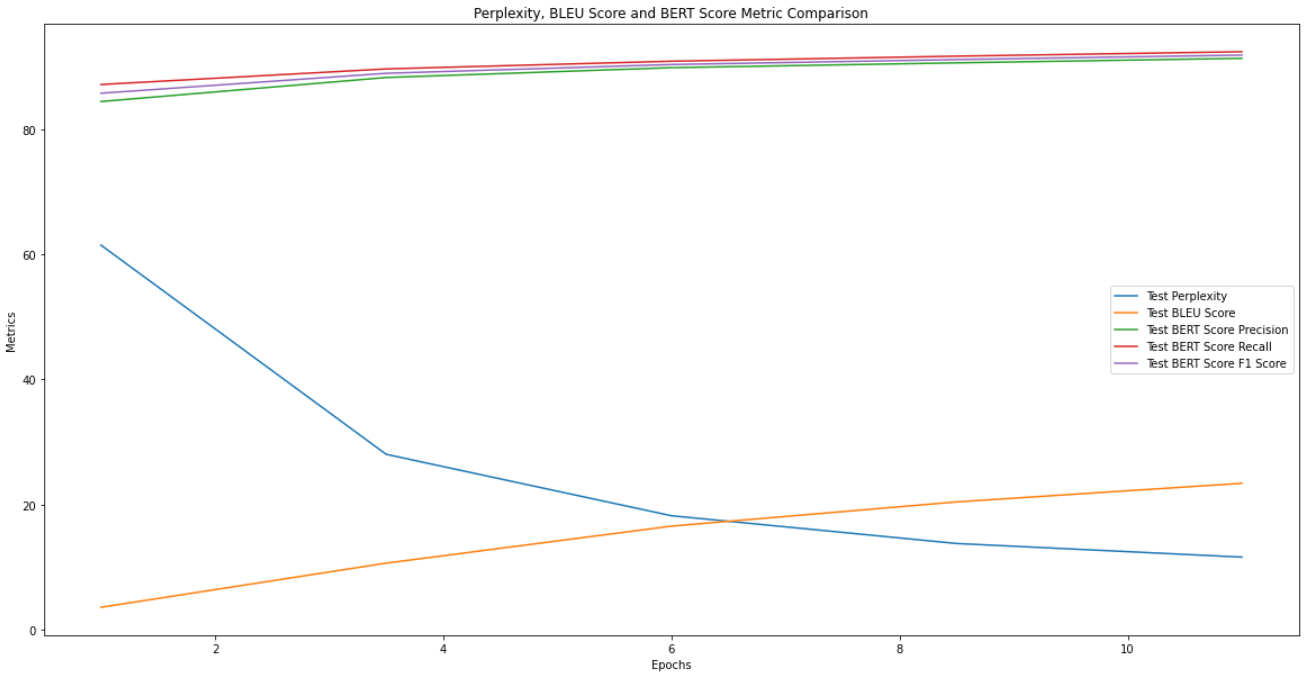
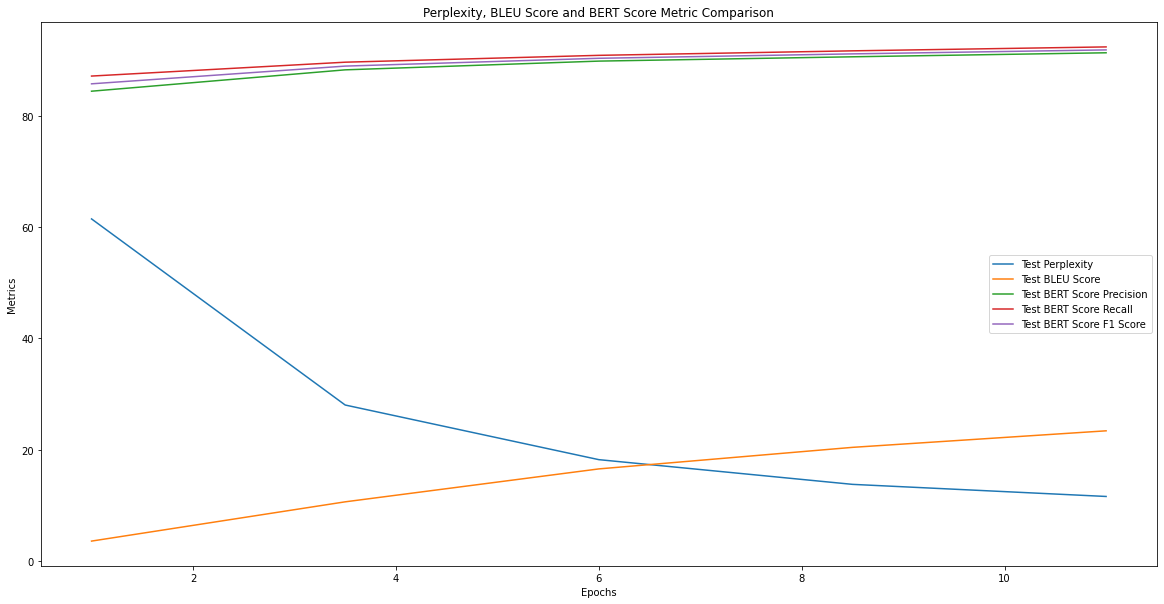
updated

diff --git a/Session9-LearningRatesandEvaluationMetricsPart1/Readme.md b/Session9-LearningRatesandEvaluationMetricsPart1/Readme.md
@@ -458,6 +458,8 @@ Epoch: 4:- Train loss: 2.771 | Val PPL: 13.789 || Epoch time = 44.338s
 Epoch: 5:- Train loss: 2.481 | Val PPL: 11.615 || Epoch time = 44.738s
 ```
 
+![](https://raw.githubusercontent.com/garima-mahato/END2/main/Session9-LearningRatesandEvaluationMetricsPart1/assets/ppl_graph.PNG)
+
 We can see a diminishing perplexity trend which indicates that the model is learning and is becoming and lesser confused. Perplexity is exponentiation of entropy. Lesser the perplexity, lesser the entropy(randomness) of the model. Thus, a better model at predicting.
 
 #### 2) BLEU Score
@@ -469,6 +471,8 @@ Epoch: 3:- Train loss: 3.163 | Val BLEU Score: 0.166 || Epoch time = 43.619s
 Epoch: 4:- Train loss: 2.771 | Val BLEU Score: 0.204 || Epoch time = 44.338s
 Epoch: 5:- Train loss: 2.481 | Val BLEU Score: 0.234 || Epoch time = 44.738s
 ```
+
+![](https://raw.githubusercontent.com/garima-mahato/END2/main/Session9-LearningRatesandEvaluationMetricsPart1/assets/bleu_graph.PNG)
 
 We can see an increasing BLEU Score trend. BLEU score is product of brevity penality(BP),which is best match length, and exponentiation of summation of weighted 1-gram, 2-gram, 3-gram, 4-gram presence count(cout of n-grams present in both reference and candidate sentence) known as modified precision. As BLEU score increases, BP and precsion increases. Higher BP means candidate translation will match the reference translations in length, in word choice, and word order. Higher precision means 1-gram, 2-gram, 3-gram and 4-gram of candidate are occurring more in number in reference sentences. Thus, predicted and target sentences are becoming similar and hence model is improving.
 
@@ -484,8 +488,16 @@ Epoch: 5:- Train loss: 2.481 | Val BERT Score: Precision - 0.913, Recall - 0.924
 
 We can see an increasing precision, recall and f1 score of BERT Score trend. BERTScore leverages the pre-trained contextual embeddings from BERT and matches words in candidate and reference sentences by cosine similarity to calculate precision, recall and F1 score. 
 
+![](https://raw.githubusercontent.com/garima-mahato/END2/main/Session9-LearningRatesandEvaluationMetricsPart1/assets/bert_score_precision_graph.PNG)
+
 For precision, each token in candidate sentence is matched by cosine similarity with all the tokens of reference sentence pairwise and the pair with maximum similarity becomes the precision score for that token. Mean of all the precision scores becomes precision of the model for that sentence. Precision scores for dataset is calculated in batches and their mean is the Precision of the model shown here. Increasing precision means increasing individual precision scores which in turn means increasing cosine similarity among reference and candidate tokens. Increasing cosine similarity means predicted and target sentences have words which are becoming more similar in nature. Thus, model is becoming better at generating text similar in nature to target text.
+
+![](https://raw.githubusercontent.com/garima-mahato/END2/main/Session9-LearningRatesandEvaluationMetricsPart1/assets/bert_score_recall_graph.PNG)
 
 For recall, each token in reference sentence is matched by cosine similarity with all the tokens of candidate sentence pairwise and the pair with maximum similarity becomes the recall score for that token. Mean of all the recall scores becomes precision of the model for that sentence. Recall scores for dataset is calculated in batches and their mean is the recall of the model shown here. Increasing recall means increasing individual recall scores which in turn means increasing cosine similarity among reference and candidate tokens. Increasing cosine similarity means predicted and target sentences have words which are becoming more similar in nature. Thus, model is becoming better at remembering context from target text.
 
+![](https://raw.githubusercontent.com/garima-mahato/END2/main/Session9-LearningRatesandEvaluationMetricsPart1/assets/bert_score_f1_graph.PNG)
+
 For F1 Score, harmonic mean of precion score and recall score for each batch is calculated. F1 scores for model,which is shown here, is mean of the F1 score of all the batches in the dataset. Increasing f1 means better precision and recall of the model. Thus, model is becoming not only better at generating text similar to target text but also becoming better at remembering context from target text.
+
+![](https://raw.githubusercontent.com/garima-mahato/END2/main/Session9-LearningRatesandEvaluationMetricsPart1/assets/perplexity_bleu_bert_score_comp_graph.PNG)
